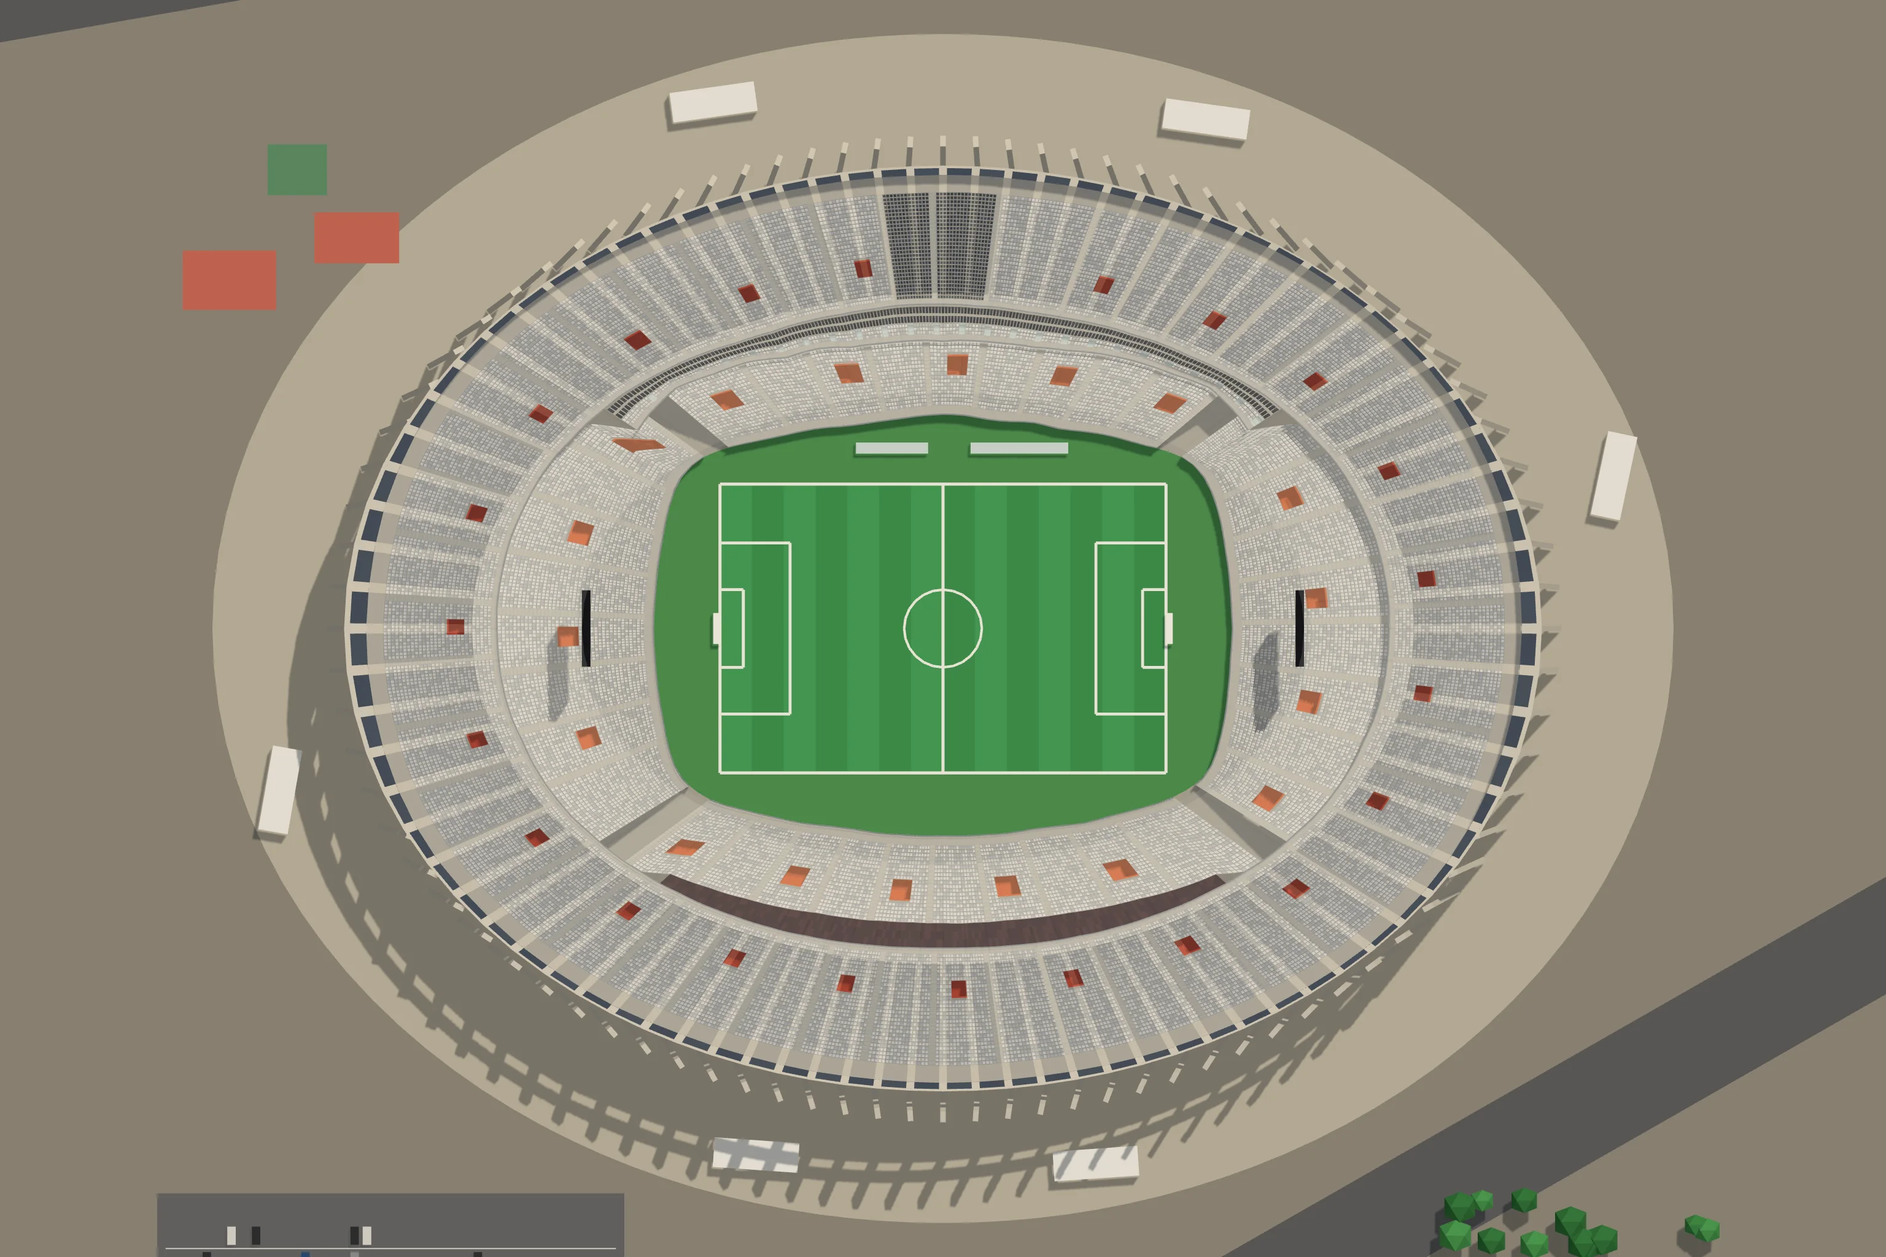
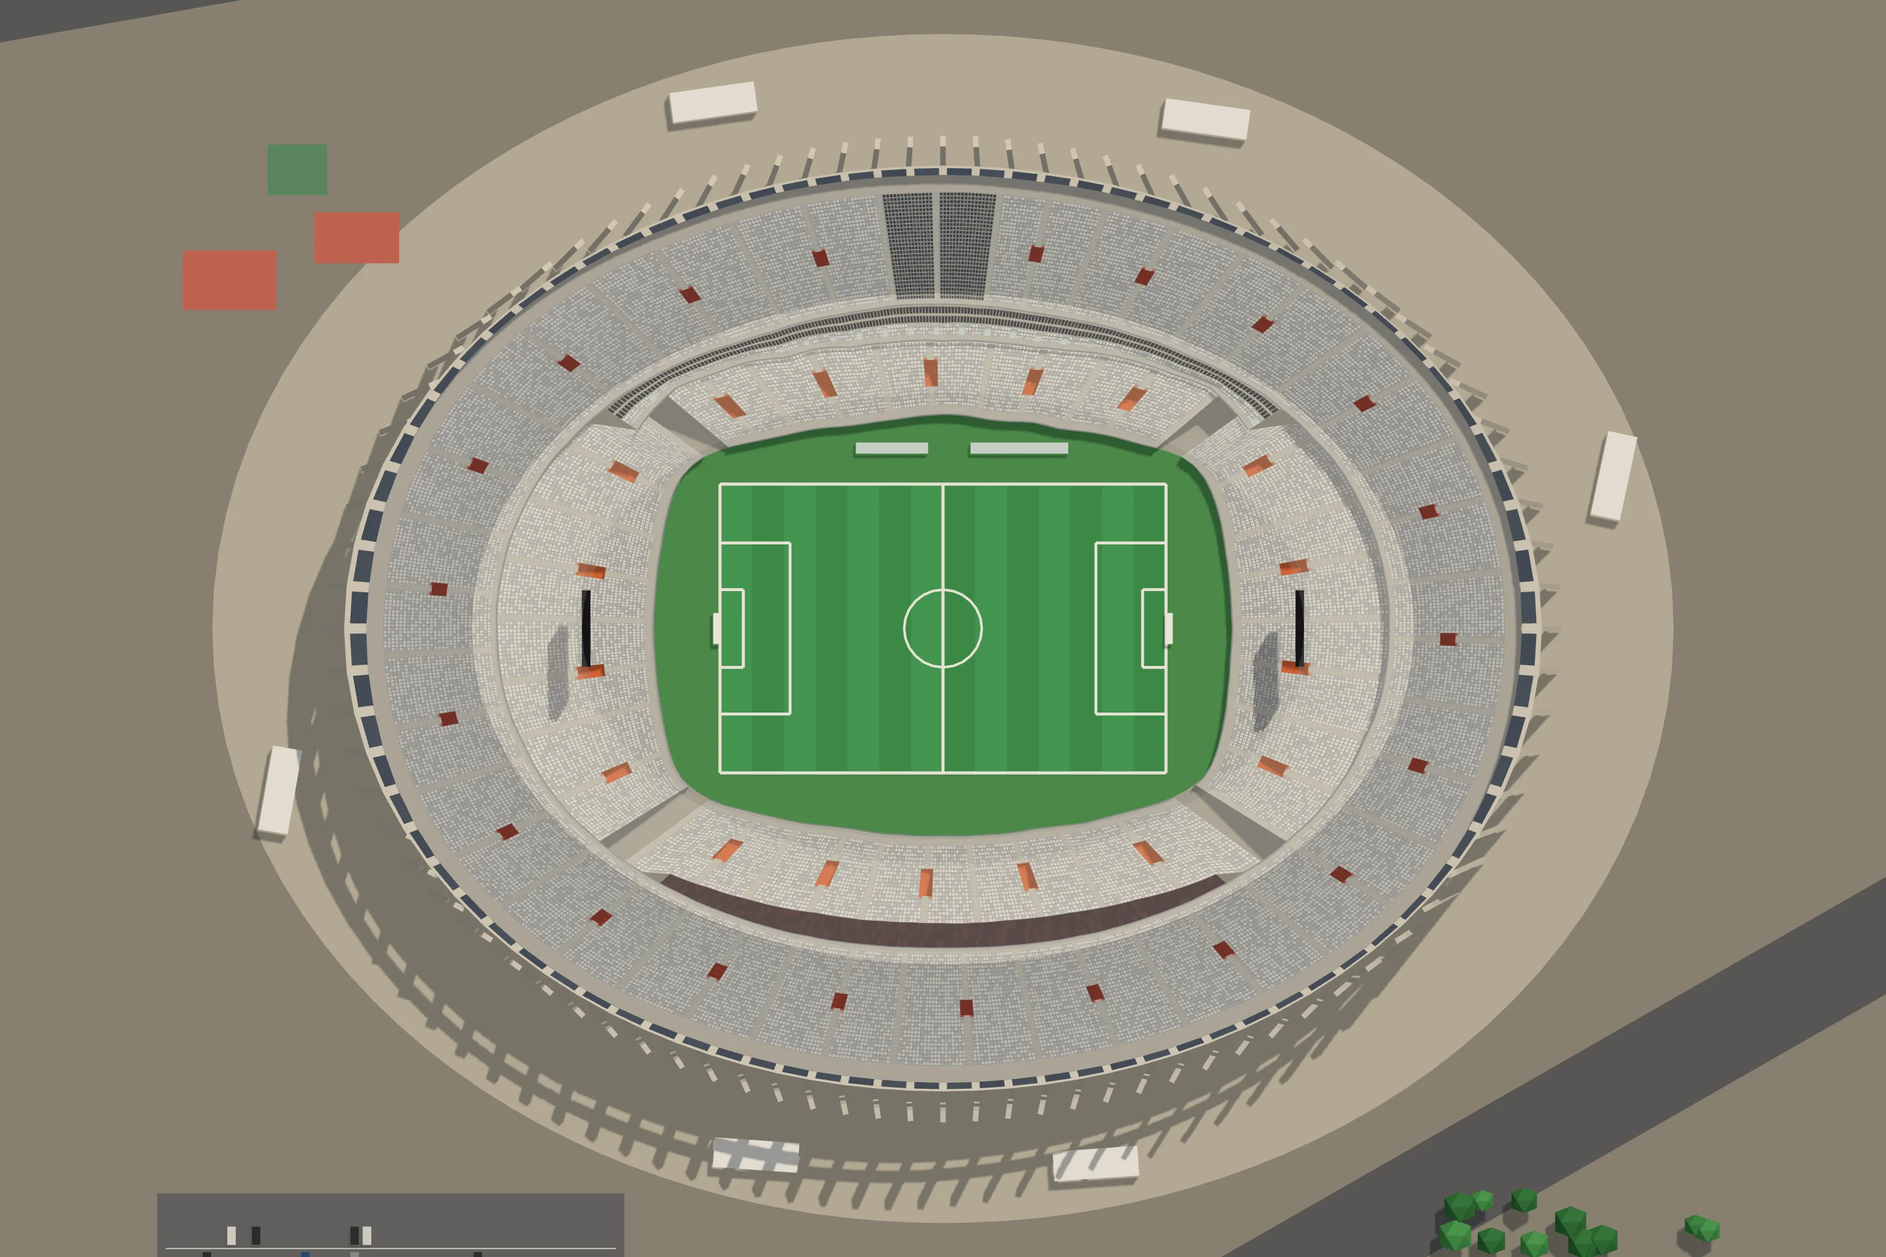
Mineirão pela foto do dono: pares de blocos com a boca em cima da escada do meio, a meia altura, uma a cada duas escadas; sem as nervuras do telhado transparente por cima das cadeiras
Claude-Session: https://claude.ai/code/session_019hwwMAyyP7ZAvyq6wYTetr

Changed region(s): [[0.1875, 0.1562, 0.8125, 0.875]]

diff --git a/cenario3d/planta.html b/cenario3d/planta.html
@@ -289,24 +289,24 @@ button:focus-visible, input:focus-visible { outline: 2px solid var(--selecao); o
 
 <script type="module">
 import * as THREE from 'https://cdn.jsdelivr.net/npm/three@0.160.0/build/three.module.min.js';
-import { planoDaCasa, montarCasa, juntarBlocos, lugarDoDecalque, placasDoLote, segmentosDoMuro, carrosDoEstacionamento, portaoDoEstacionamento } from './js/casas3d.js?v=218459d9d9';
-import { montarModelos } from './js/modelos3d.js?v=218459d9d9';
-import { moldeDaPeca, comTransformador } from './js/props3d.js?v=218459d9d9';
-import { ATLAS } from './js/modelos_atlas.js?v=218459d9d9';
-import { Construtor, sorteio } from './js/construtor3d.js?v=218459d9d9';
-import { gerarProposta, MAPAS, MAPA_DO_PORTE, RUA, LONGE_DO_ESTADIO_M, cisaoDaPraca, VAO_CIDADES_M, PRAIA_A_MAIS } from './js/proposta.js?v=218459d9d9';
-import { montarSede, nivelQueCabe } from './js/sede3d.js?v=218459d9d9';
-import { onibus as onibusDetalhe, juntar as juntarDetalhe } from './js/detalhe3d.js?v=218459d9d9';
-import { montarLoteDeVeraneio, plantaDoLote, festaNoMundo, noMundoDoLote, cenaDaFesta, detalheDaCasaDaFesta } from './js/veraneio3d.js?v=218459d9d9';
-import { montarCaravana, cenaDaCaravana } from './js/caravana3d.js?v=218459d9d9';
-import { montarEstacao, montarTunel, montarCarro, TREM } from './js/metro3d.js?v=218459d9d9';
-import { montarShopping, montarDelegacia, montarPraca, montarIgreja, montarEscola, montarHospital } from './js/equip3d.js?v=218459d9d9';
-import { montarEquipAntigo, TIPOS_ANTIGOS } from './js/equip_antigo3d.js?v=218459d9d9';
-import { PECAS_PRAIA, montarPecaDaPraia } from './js/praia3d.js?v=218459d9d9';
-import { ESPECIES_LP, FLORA_LP, montarArvoreLowpoly, montarAsDez, facesDaArvore, especieLowpolyDe } from './js/arvores_lowpoly.js?v=218459d9d9';
-import { plantarMato, montarMato, LONGE_M, DENSIDADE, LADRILHO_M } from './js/mato3d.js?v=218459d9d9';
-import { ESTADIOS_JOGO, montarEstadioJogo, glbDoEstadio, cortarEstadio, plantaDoEstadio, modeloDaLotacao, nomeDoLetreiro, nomeComAcento, marcaDoEstadio, BOCAS_DOS_PORTOES, BILHETERIAS_DA_RUA } from './js/estadios3d.js?v=218459d9d9';
-import { PECAS_AMBULANTES, montarAmbulante } from './js/ambulantes3d.js?v=218459d9d9';
+import { planoDaCasa, montarCasa, juntarBlocos, lugarDoDecalque, placasDoLote, segmentosDoMuro, carrosDoEstacionamento, portaoDoEstacionamento } from './js/casas3d.js?v=d166c280b1';
+import { montarModelos } from './js/modelos3d.js?v=d166c280b1';
+import { moldeDaPeca, comTransformador } from './js/props3d.js?v=d166c280b1';
+import { ATLAS } from './js/modelos_atlas.js?v=d166c280b1';
+import { Construtor, sorteio } from './js/construtor3d.js?v=d166c280b1';
+import { gerarProposta, MAPAS, MAPA_DO_PORTE, RUA, LONGE_DO_ESTADIO_M, cisaoDaPraca, VAO_CIDADES_M, PRAIA_A_MAIS } from './js/proposta.js?v=d166c280b1';
+import { montarSede, nivelQueCabe } from './js/sede3d.js?v=d166c280b1';
+import { onibus as onibusDetalhe, juntar as juntarDetalhe } from './js/detalhe3d.js?v=d166c280b1';
+import { montarLoteDeVeraneio, plantaDoLote, festaNoMundo, noMundoDoLote, cenaDaFesta, detalheDaCasaDaFesta } from './js/veraneio3d.js?v=d166c280b1';
+import { montarCaravana, cenaDaCaravana } from './js/caravana3d.js?v=d166c280b1';
+import { montarEstacao, montarTunel, montarCarro, TREM } from './js/metro3d.js?v=d166c280b1';
+import { montarShopping, montarDelegacia, montarPraca, montarIgreja, montarEscola, montarHospital } from './js/equip3d.js?v=d166c280b1';
+import { montarEquipAntigo, TIPOS_ANTIGOS } from './js/equip_antigo3d.js?v=d166c280b1';
+import { PECAS_PRAIA, montarPecaDaPraia } from './js/praia3d.js?v=d166c280b1';
+import { ESPECIES_LP, FLORA_LP, montarArvoreLowpoly, montarAsDez, facesDaArvore, especieLowpolyDe } from './js/arvores_lowpoly.js?v=d166c280b1';
+import { plantarMato, montarMato, LONGE_M, DENSIDADE, LADRILHO_M } from './js/mato3d.js?v=d166c280b1';
+import { ESTADIOS_JOGO, montarEstadioJogo, glbDoEstadio, cortarEstadio, plantaDoEstadio, modeloDaLotacao, nomeDoLetreiro, nomeComAcento, marcaDoEstadio, BOCAS_DOS_PORTOES, BILHETERIAS_DA_RUA } from './js/estadios3d.js?v=d166c280b1';
+import { PECAS_AMBULANTES, montarAmbulante } from './js/ambulantes3d.js?v=d166c280b1';
 
 const $ = id => document.getElementById(id);
 const aviso = $('aviso');
@@ -323,25 +323,25 @@ function carregarScript(src) {
 }
 window.TO = window.TO || { dados: {} };
 try {
-  await carregarScript('dados/torcidas.js?v=218459d9d9');
-  await carregarScript('dados/times.js?v=218459d9d9');
-  await carregarScript('dados/cena_estadio.js?v=218459d9d9');
-  await carregarScript('dados/cidades.js?v=218459d9d9');
-  await carregarScript('dados/estadios.js?v=218459d9d9');
-  await carregarScript('dados/escudos.js?v=218459d9d9');
+  await carregarScript('dados/torcidas.js?v=d166c280b1');
+  await carregarScript('dados/times.js?v=d166c280b1');
+  await carregarScript('dados/cena_estadio.js?v=d166c280b1');
+  await carregarScript('dados/cidades.js?v=d166c280b1');
+  await carregarScript('dados/estadios.js?v=d166c280b1');
+  await carregarScript('dados/escudos.js?v=d166c280b1');
   /* o manifesto das faixas de verdade (a arte do dono, 29/09/2026): a arquibancada estende a da torcida */
-  await carregarScript('dados/faixas.js?v=218459d9d9').catch(() => {});
+  await carregarScript('dados/faixas.js?v=d166c280b1').catch(() => {});
   /* O DOMÍNIO DOS BAIRROS (o dono, 30/09/2026): as sedes repetidas num
      bairro saem espalhadas (nos dados, na carga) e os bares ganham o
      bairro deles — o mesmo módulo do jogo (js/mundo/dominio.js) */
-  await carregarScript('js/dominio.js?v=218459d9d9').catch(() => {});
+  await carregarScript('js/dominio.js?v=d166c280b1').catch(() => {});
 } catch (e) {
   aviso.textContent = 'A planta da cidade não carregou (' + e.message + '). Recarregue a página.';
   throw e;
 }
 /* os PNG dos escudos, embutidos (o montar.sh gera): sem o arquivo, o
    caminho vai direto pra img/escudos/ */
-await carregarScript('dados/escudos_embutidos.js?v=218459d9d9').catch(() => {});
+await carregarScript('dados/escudos_embutidos.js?v=d166c280b1').catch(() => {});
 const P = TO.dados.plantaEstadio, K = P.CIDADE, M = P.METRO, CALC = K.CALC;
 /* o mapa da vez (o pequeno, o médio ou o grande, montado pra praça
    escolhida): quem monta é usarMapa, lá embaixo */

diff --git a/cenario3d/dados/estadios_cenas.js b/cenario3d/dados/estadios_cenas.js
@@ -11705,7 +11705,7 @@ window.__ESTADIOS = {
    "visitante": 3
   },
   "foto": {
-   "imagem": "img/cenas/estadio_mineirao.webp?v=98f1e95c",
+   "imagem": "img/cenas/estadio_mineirao.webp?v=72781fe0",
    "mascara": "384;384;384;384;384;384;384;384;384;384;384;384;384;384;384;384;384;384;384;384;384;384;384;384;384;384;384;384;384;384;384;384;384;384;384;384;183,18,183;172,39,173;165,53,166;160,64,160;155,73,156;152,80,152;148,88,148;145,94,145;142,100,142;140,105,139;137,111,136;134,116,134;132,121,131;130,125,129;127,130,127;125,134,125;123,138,123;121,142,121;120,145,119;118,149,117;116,152,116;115,155,114;113,158,113;112,161,111;110,164,110;109,167,108;108,169,107;106,172,106;105,174,105;104,177,103;103,179,102;102,181,101;101,183,100;99,186,99;98,188,98;97,190,97;97,191,96;96,193,95;95,195,94;94,197,93;93,199,92;92,200,92;92,201,91;91,203,90;90,205,89;89,206,89;89,207,88;88,35,1,136,1,36,87;87,35,3,61,12,61,3,35,87;87,34,6,51,31,48,6,35,86;86,35,7,42,44,42,7,36,85;86,42,2,33,58,33,2,43,85;85,73,69,73,84;85,69,76,70,84;84,65,85,67,83;84,62,92,63,83;83,61,96,62,82;83,59,100,60,82;82,59,102,60,81;82,58,104,59,81;81,58,106,58,81;81,57,108,58,80;80,58,108,58,80;80,57,110,58,79;80,57,110,58,79;79,57,112,57,79;79,57,112,58,78;79,57,112,58,78;78,58,113,57,78;78,57,114,57,78;78,57,114,58,77;78,57,114,58,77;78,57,114,58,77;77,58,115,57,77;77,57,116,58,76;77,57,116,58,76;77,57,116,58,76;76,58,116,58,76;76,58,116,58,76;76,58,116,59,75;76,57,118,58,75;76,57,118,58,75;76,57,118,58,75;76,57,118,58,75;76,57,118,58,75;75,58,118,58,75;75,58,118,58,75;75,58,118,58,75;75,58,118,58,75;75,58,118,58,75;75,58,118,58,75;75,58,118,58,75;75,58,118,58,75;75,58,118,58,75;75,58,118,58,75;75,58,118,58,75;75,58,118,58,75;75,58,118,58,75;75,58,118,58,75;75,58,118,58,75;75,58,118,58,75;76,57,118,58,75;76,57,118,58,75;76,57,118,57,76;76,58,117,57,76;76,58,116,58,76;76,58,116,58,76;76,58,116,58,76;77,57,116,58,76;77,57,116,57,77;77,58,115,57,77;77,58,115,57,77;78,57,114,58,77;78,57,114,57,78;78,57,114,57,78;78,58,113,57,78;79,57,112,58,78;79,57,112,57,79;79,57,112,57,79;80,57,110,58,79;80,57,110,57,80;80,58,108,58,80;81,57,107,58,81;81,58,105,59,81;81,59,103,60,81;82,59,100,61,82;82,61,96,63,82;83,62,92,64,83;83,65,86,67,83;84,68,79,69,84;84,72,71,73,84;85,75,63,76,85;85,82,50,82,85;86,89,34,89,86;86,98,16,98,86;87,210,87;88,208,88;88,208,88;89,206,89;90,204,90;91,203,90;91,202,91;92,41,3,112,3,41,92;93,41,1,114,1,41,93;94,196,94;95,195,94;96,193,95;97,191,96;98,189,97;99,187,98;100,185,99;101,183,100;102,181,101;103,179,102;104,177,103;105,174,105;106,172,106;108,169,107;109,166,109;110,164,110;112,161,111;113,158,113;115,155,114;116,152,116;118,148,118;120,145,119;121,142,121;123,138,123;125,134,125;127,130,127;130,125,129;132,121,131;134,116,134;137,111,136;140,105,139;142,101,141;145,95,144;149,87,148;152,81,151;156,73,155;160,65,159;165,54,165;171,42,171;182,21,181;384;384;384;384;384;384;384;384;384;384;384;384;384;384;384;384;384;384;384;384;384;384;384;384;384;384;384;384;384;384;384;384;384;384;384;384"
   },
   "cena": {
@@ -11824,11 +11824,11 @@ window.__ESTADIOS = {
      "lado": "mandante",
      "raio": 40,
      "dir": [
-      -1,
-      0.02
+      -0.99,
+      0.12
      ],
-     "x": 928,
-     "y": 1037
+     "x": 965,
+     "y": 1094
     },
     {
      "id": "portao_visitante",
@@ -11836,11 +11836,11 @@ window.__ESTADIOS = {
      "lado": "visitante",
      "raio": 40,
      "dir": [
-      0.59,
-      -0.81
+      0.64,
+      -0.77
      ],
-     "x": 1982,
-     "y": 410
+     "x": 1842,
+     "y": 652
     }
    ],
    "pmPostos": [

diff --git a/cenario3d/js/jogo2d.js b/cenario3d/js/jogo2d.js
@@ -17,7 +17,7 @@
    cartão da partida cai perto da hora da bola e nada do que conta o
    placar passa na frente dele.
    ========================================================= */
-import { CASCA } from './jogo_casca.js?v=218459d9d9';
+import { CASCA } from './jogo_casca.js?v=d166c280b1';
 
 const carregarScript = src => new Promise((ok, erro) => {
   const s = document.createElement('script');
@@ -31,17 +31,17 @@ async function montarJogo() {
   caixa.innerHTML = CASCA;
   while (caixa.firstChild) document.body.appendChild(caixa.firstChild);
   /* os escudos, as fotos das praças e as bandeiras embutidos (o `IMG()` do jogo procura aqui antes do caminho) */
-  await carregarScript('dados/imagens_jogo.js?v=218459d9d9').catch(() => {});
+  await carregarScript('dados/imagens_jogo.js?v=d166c280b1').catch(() => {});
   /* os estádios low-poly das cenas (ferramentas/estadios/assar.js): antes do jogo, que monta as cenas quando carrega */
-  await carregarScript('dados/estadios_cenas.js?v=218459d9d9').catch(() => {});
+  await carregarScript('dados/estadios_cenas.js?v=d166c280b1').catch(() => {});
   /* sem o rolo do feed: a tela entre os jogos é o portal */
   window.TO = window.TO || {};
   TO.semFeed = true;
-  await carregarScript('js/jogo.js?v=218459d9d9');
-  await carregarScript('js/portal.js?v=218459d9d9').catch(err => console.error('o portal não carregou:', err));
+  await carregarScript('js/jogo.js?v=d166c280b1');
+  await carregarScript('js/portal.js?v=d166c280b1').catch(err => console.error('o portal não carregou:', err));
   /* o boneco das cenas de imagem (os dois níveis afinados, em base64) */
-  if (!TO.dados.bonecoPertoGLB) await carregarScript('dados/boneco_glb.js?v=218459d9d9').catch(() => {});
-  await import('./bonecos3_global.js?v=218459d9d9').catch(err => console.error('o boneco das cenas não carregou:', err));
+  if (!TO.dados.bonecoPertoGLB) await carregarScript('dados/boneco_glb.js?v=d166c280b1').catch(() => {});
+  await import('./bonecos3_global.js?v=d166c280b1').catch(err => console.error('o boneco das cenas não carregou:', err));
   ligar();
 }
 

diff --git a/cenario3d/jogo.html b/cenario3d/jogo.html
@@ -9,16 +9,16 @@
 <link rel="preconnect" href="https://fonts.googleapis.com">
 <link rel="preconnect" href="https://fonts.gstatic.com" crossorigin>
 <link rel="stylesheet" href="https://fonts.googleapis.com/css2?family=Barlow+Semi+Condensed:wght@500;600;700&family=Barlow:wght@400;500;600&family=IBM+Plex+Mono:wght@400;500&display=swap">
-<link rel="stylesheet" href="css/jogo.css?v=218459d9d9">
-<link rel="stylesheet" href="css/jogo3d.css?v=218459d9d9">
-<link rel="stylesheet" href="css/portal.css?v=218459d9d9">
-<link rel="stylesheet" href="css/telas3d.css?v=218459d9d9">
+<link rel="stylesheet" href="css/jogo.css?v=d166c280b1">
+<link rel="stylesheet" href="css/jogo3d.css?v=d166c280b1">
+<link rel="stylesheet" href="css/portal.css?v=d166c280b1">
+<link rel="stylesheet" href="css/telas3d.css?v=d166c280b1">
 <style>
 [hidden] { display: none !important; }
 html, body { height: 100%; margin: 0; }
 </style>
 </head>
 <body class="jogo3d">
-<script type="module" src="js/jogo2d.js?v=218459d9d9"></script>
+<script type="module" src="js/jogo2d.js?v=d166c280b1"></script>
 </body>
 </html>

diff --git a/cenario3d/js/casas3d.js b/cenario3d/js/casas3d.js
@@ -60,10 +60,10 @@
    avançam (`rec`), e o letreiro, a pixação e a falha de reboco do
    bairro vão pro plano dessa parede, não pro da divisa.
    ========================================================= */
-import { Construtor, METRO, mureta, toldo, arSplit, sorteio } from './construtor3d.js?v=218459d9d9';
-import { ATLAS } from './modelos_atlas.js?v=218459d9d9';
+import { Construtor, METRO, mureta, toldo, arSplit, sorteio } from './construtor3d.js?v=d166c280b1';
+import { ATLAS } from './modelos_atlas.js?v=d166c280b1';
 /* as lojas do assalto (lojas3d.js): modelos de lote como os outros */
-import { TIPOS_LOJA, REC_LOJA, placaDaLoja } from './lojas3d.js?v=218459d9d9';
+import { TIPOS_LOJA, REC_LOJA, placaDaLoja } from './lojas3d.js?v=d166c280b1';
 
 /* o arquivo de cada folha, pro bairro montar o material dele */
 export const arquivoDaFolha = folha => ATLAS[folha].arquivo;

diff --git a/cenario3d/js/ambulantes3d.js b/cenario3d/js/ambulantes3d.js
@@ -27,8 +27,8 @@
    que a planta acha o lugar dela na calçada do estádio. `sol`: o meio e
    o raio da copa ([x, z, r]), que o mapa desenha de perto.
    ========================================================= */
-import { Construtor, noMundo, placasNoMundo, sorteio, esfera, unit } from './construtor3d.js?v=218459d9d9';
-import { Lugar, barra, tubo, cilindro, bloco, pano, toro, guardaSol, cadeiraPlastica, isopor, banqueta, CORES_SOL } from './praia3d.js?v=218459d9d9';
+import { Construtor, noMundo, placasNoMundo, sorteio, esfera, unit } from './construtor3d.js?v=d166c280b1';
+import { Lugar, barra, tubo, cilindro, bloco, pano, toro, guardaSol, cadeiraPlastica, isopor, banqueta, CORES_SOL } from './praia3d.js?v=d166c280b1';
 
 const AQUI = Lugar();
 const escolha = (rnd, lista) => lista[Math.floor(rnd() * lista.length) % lista.length];

diff --git a/cenario3d/js/praia3d.js b/cenario3d/js/praia3d.js
@@ -36,8 +36,8 @@
    cadeira e a mesa de plástico) servem também os ambulantes da porta do
    estádio (ambulantes3d.js), na mesma folha.
    ========================================================= */
-import { Construtor, METRO, lerp, sub, soma, esc, unit, pv, noMundo, placasNoMundo, sorteio, varrer, esfera } from './construtor3d.js?v=218459d9d9';
-import { montarArvoreLowpoly } from './arvores_lowpoly.js?v=218459d9d9';
+import { Construtor, METRO, lerp, sub, soma, esc, unit, pv, noMundo, placasNoMundo, sorteio, varrer, esfera } from './construtor3d.js?v=d166c280b1';
+import { montarArvoreLowpoly } from './arvores_lowpoly.js?v=d166c280b1';
 
 const ALTO = [0, 1, 0];
 const escolha = (rnd, lista) => lista[Math.floor(rnd() * lista.length) % lista.length];

diff --git a/cenario3d/js/modelos3d.js b/cenario3d/js/modelos3d.js
@@ -32,8 +32,8 @@
    requadro da janela, toldo, ar-condicionado. O resto é pintura.
    ========================================================= */
 import * as THREE from 'https://cdn.jsdelivr.net/npm/three@0.160.0/build/three.module.min.js';
-import { ATLAS } from './modelos_atlas.js?v=218459d9d9';
-import { Construtor, METRO, lerp, sub, soma, esc, pv, pe, unit, recuoPoligono, mureta, toldo, arSplit } from './construtor3d.js?v=218459d9d9';
+import { ATLAS } from './modelos_atlas.js?v=d166c280b1';
+import { Construtor, METRO, lerp, sub, soma, esc, pv, pe, unit, recuoPoligono, mureta, toldo, arSplit } from './construtor3d.js?v=d166c280b1';
 
 /* =======================================================
    1. A IGREJA MATRIZ

diff --git a/cenario3d/js/props3d.js b/cenario3d/js/props3d.js
@@ -26,8 +26,8 @@
    poste vira uma haste de longe; o resto, que é miúdo, some.
    ========================================================= */
 import * as THREE from 'https://cdn.jsdelivr.net/npm/three@0.160.0/build/three.module.min.js';
-import { ATLAS } from './modelos_atlas.js?v=218459d9d9';
-import { Construtor, METRO, lerp } from './construtor3d.js?v=218459d9d9';
+import { ATLAS } from './modelos_atlas.js?v=d166c280b1';
+import { Construtor, METRO, lerp } from './construtor3d.js?v=d166c280b1';
 
 /* as cores que o vértice dá pro que sai claro na folha */
 const COR_CESTO = ['#6aa33a', '#d2b53a', '#3f82ad', '#8b6a3c', '#b8452f'];

diff --git a/cenario3d/js/mato3d.js b/cenario3d/js/mato3d.js
@@ -19,8 +19,8 @@
 
    Tudo em metros; `noMundo` converte. A mesma semente dá o mesmo mato.
    ========================================================= */
-import { METRO, noMundo, sorteio } from './construtor3d.js?v=218459d9d9';
-import { facesDaArvore, especieLowpolyDe } from './arvores_lowpoly.js?v=218459d9d9';
+import { METRO, noMundo, sorteio } from './construtor3d.js?v=d166c280b1';
+import { facesDaArvore, especieLowpolyDe } from './arvores_lowpoly.js?v=d166c280b1';
 
 /* a área de chão de cada árvore (m²), por lugar */
 export const DENSIDADE = { mata: 70, cerrado: 200, caatinga: 150, sul: 90, praia: 120, cidade: 250 };

diff --git a/cenario3d/js/bonecos3_global.js b/cenario3d/js/bonecos3_global.js
@@ -14,7 +14,7 @@
    DOMContentLoaded: quem usa (a ponte, numa cena aberta pelo jogador)
    chega muito depois.
    ========================================================= */
-import { montar, desenharDeCima, desenharVitrine, limparDeCima, fotoDoTrofeu, fotoDaBriga, fotoDaCena, perdeu, bonecos } from './bonecos3_cena.js?v=218459d9d9';
+import { montar, desenharDeCima, desenharVitrine, limparDeCima, fotoDoTrofeu, fotoDaBriga, fotoDaCena, perdeu, bonecos } from './bonecos3_cena.js?v=d166c280b1';
 
 window.TO = window.TO || {};
 TO.diaJogo = TO.diaJogo || {};

diff --git a/cenario3d/js/bonecos3_cena.js b/cenario3d/js/bonecos3_cena.js
@@ -103,7 +103,7 @@
       numa fase sorteada (quem sai junto não sai no mesmo pé).
    ========================================================= */
 import * as THREE from 'https://cdn.jsdelivr.net/npm/three@0.160.0/build/three.module.min.js';
-import { GLTFLoader, SkeletonUtils } from './GLTFLoader.js?v=218459d9d9';
+import { GLTFLoader, SkeletonUtils } from './GLTFLoader.js?v=d166c280b1';
 
 /* onde o modelo mora, quando não vem embutido em base64: o detalhado
    (o do Blender) e os dois níveis afinados dele (ferramentas/afinar_boneco.mjs) */
